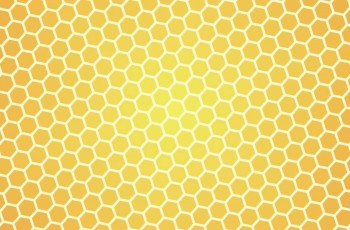
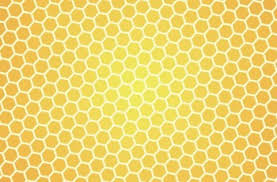
versao youtube e background

Changed region(s): [[0.8375, 0.7418, 0.8664, 0.7692]]

diff --git a/estilo.css b/estilo.css
@@ -1,7 +1,6 @@
 body{
     margin: 0;   
-    background-color:white;
-    /* background-image: url(fundo.png); */
+    background-image: url(background-colmeia.jpg);
 }
 
 header{
@@ -83,6 +82,7 @@ p{
     margin: 0;
     padding: 0;
     font-family: 'Roboto', sans-serif;
+    font-weight: bold;
 }
 
 h3{
@@ -101,27 +101,12 @@ h5{
     height: 80px;
 }
 
-
-.mobile{
-    height: 300px;
-    width: 300px;
-    justify-content: center;
-    margin: 20px;
-}
-
-.faq{
-    height: 300px;
-    width: 300px;
-    justify-content: center;
-    margin: 20px;
-}
-
 .sobre{
     height: 250px;
     width: 215px;
     justify-content: center;
     margin: 20px;
-    border: 1px solid black;
+    border: 1px solid #f3a025;
 }
 
 .rp{
@@ -192,9 +177,6 @@ h5{
     margin-top: 100px;
     width: 80%;
 }
-
-
-
 
 .flex2{
     display: flex;

diff --git a/index.html b/index.html
@@ -102,7 +102,9 @@
         <div>
             <section id="secao3">
                 <h3>Futuro app</h3>
-            <iframe width="100%" height="405" src="https://www.youtube.com/embed/tmN4hNbt0tQ?rel=0&amp;showinfo=0" frameborder="0" allow="autoplay; encrypted-media" allowfullscreen></iframe>
+                <center>
+                    <iframe width="100%" height="405" src="https://www.youtube.com/embed/tmN4hNbt0tQ?rel=0&amp;showinfo=0" frameborder="0" allow="autoplay; encrypted-media" allowfullscreen></iframe>
+                </center>
             </section>
         </div>
         
